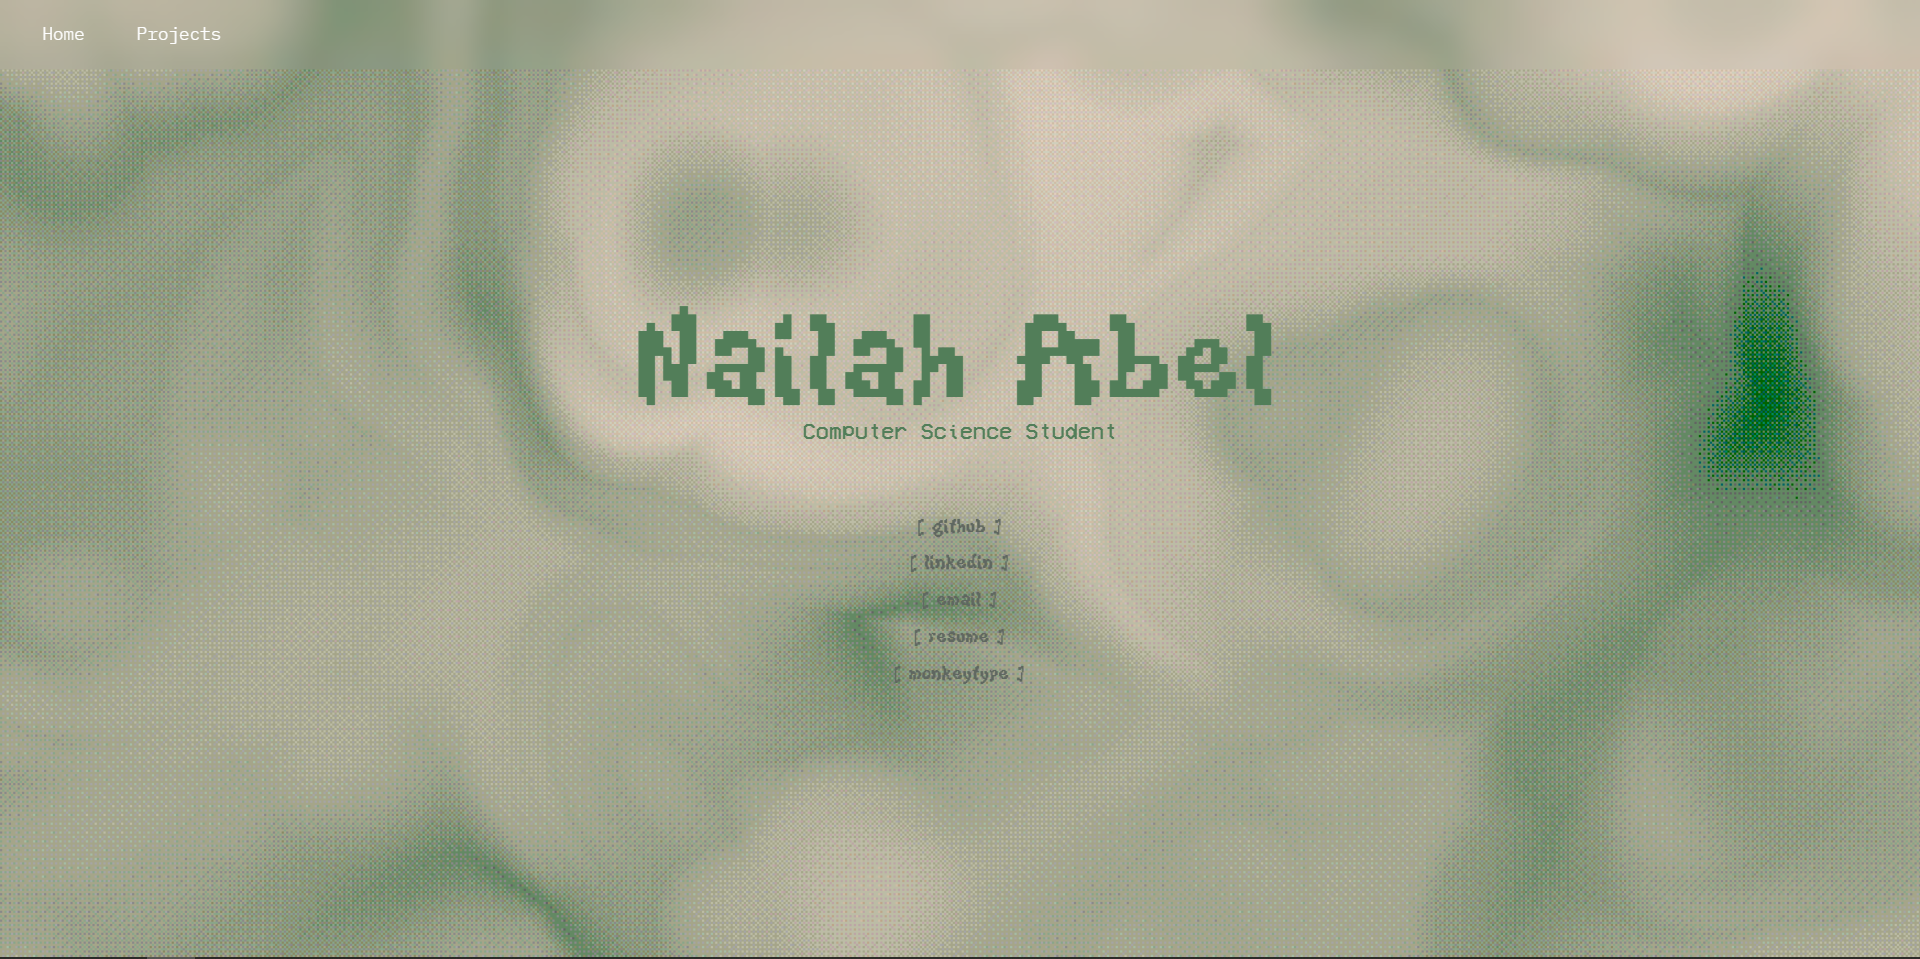
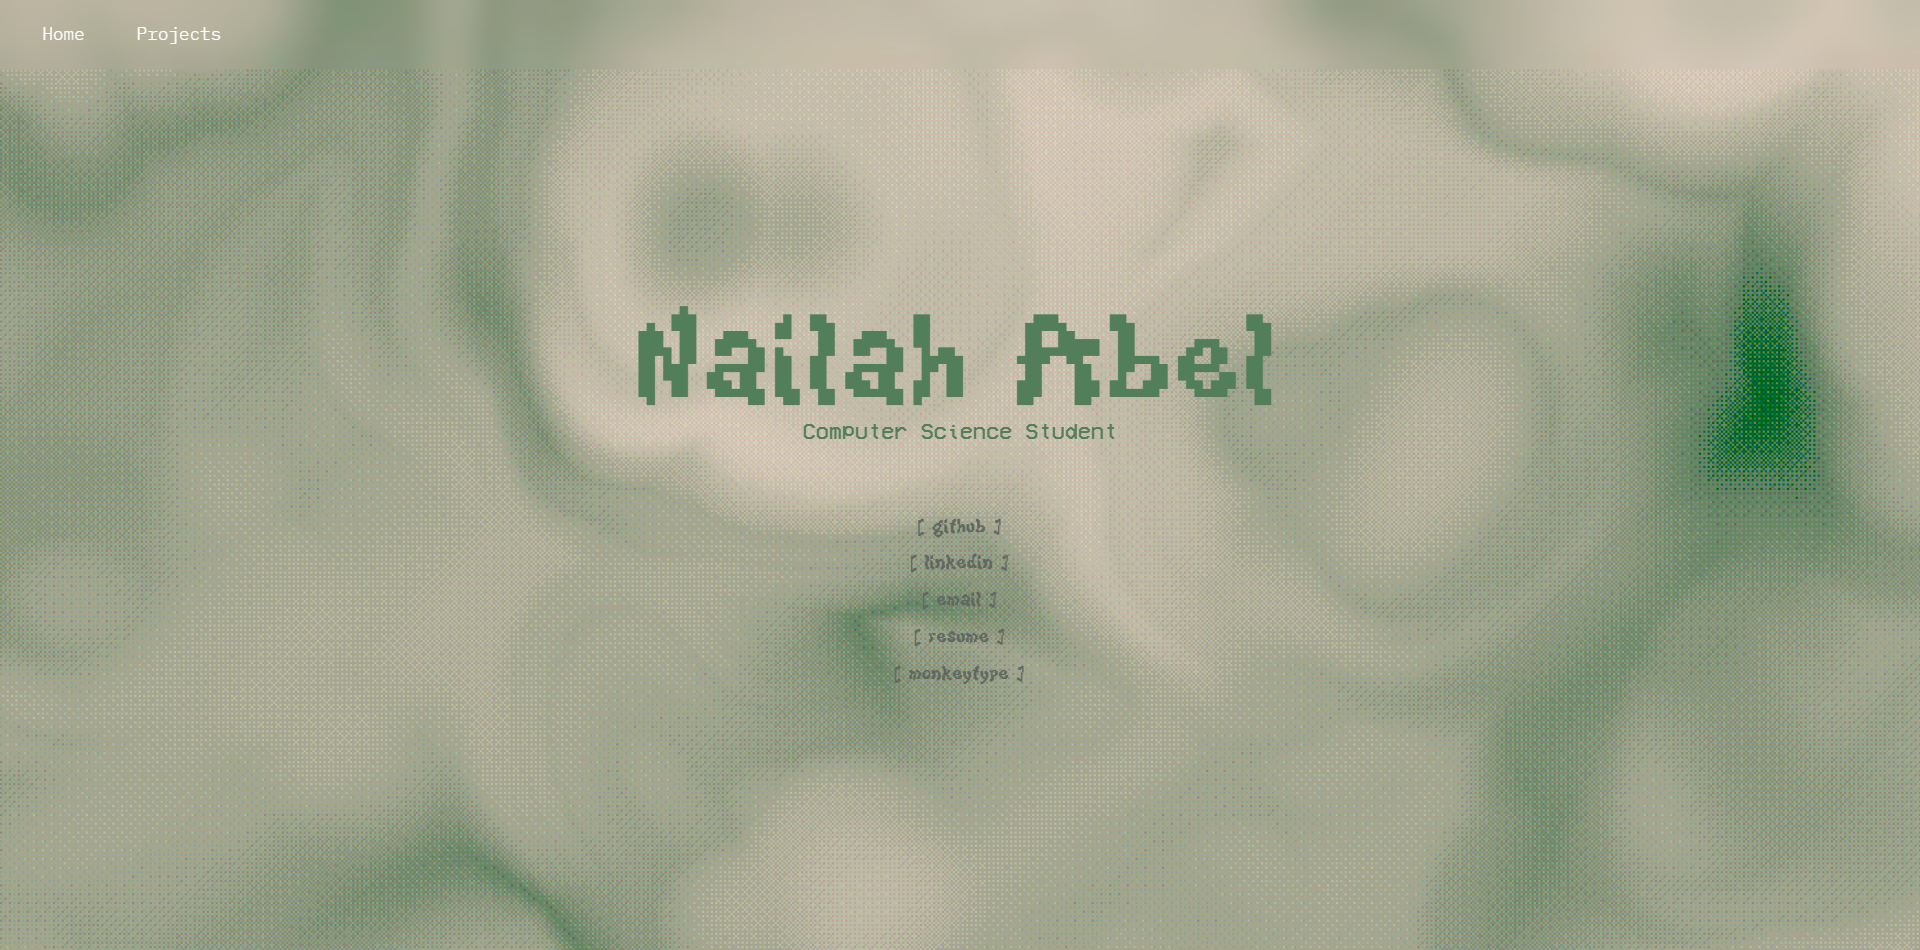
fix projects layout

diff --git a/src/index.css b/src/index.css
@@ -364,6 +364,7 @@ nav {
   width: 100%;
   min-height: calc(100dvh - 4rem);
   overflow: visible;
+  display: flex;
 }
 
 .projects-container {
@@ -373,8 +374,6 @@ nav {
   /* min-height: calc(100dvh - 4rem); */
   justify-content: center;
   position: relative;
-  
-  
 }
 
 .projects-title {
@@ -387,16 +386,18 @@ nav {
   text-align: start;
   padding: clamp(1.25rem, 3vw, 3rem);
   padding-left: clamp(1.25rem, 6vw, 6rem);
-  justify-content: center;
+  justify-content: start;
 }
 
 .projects-layout {
   display: flex;
   width: 100%;
   padding: clamp(1.25rem, 6vw, 6rem);
+  padding-top: 1px;
   gap: clamp(1.25rem, 3vw, 4rem);
   font-family: "VCR OSD Mono", monospace;
   color: #2f4f3a;
+
 }
 
 /* LEFT COLUMN */
